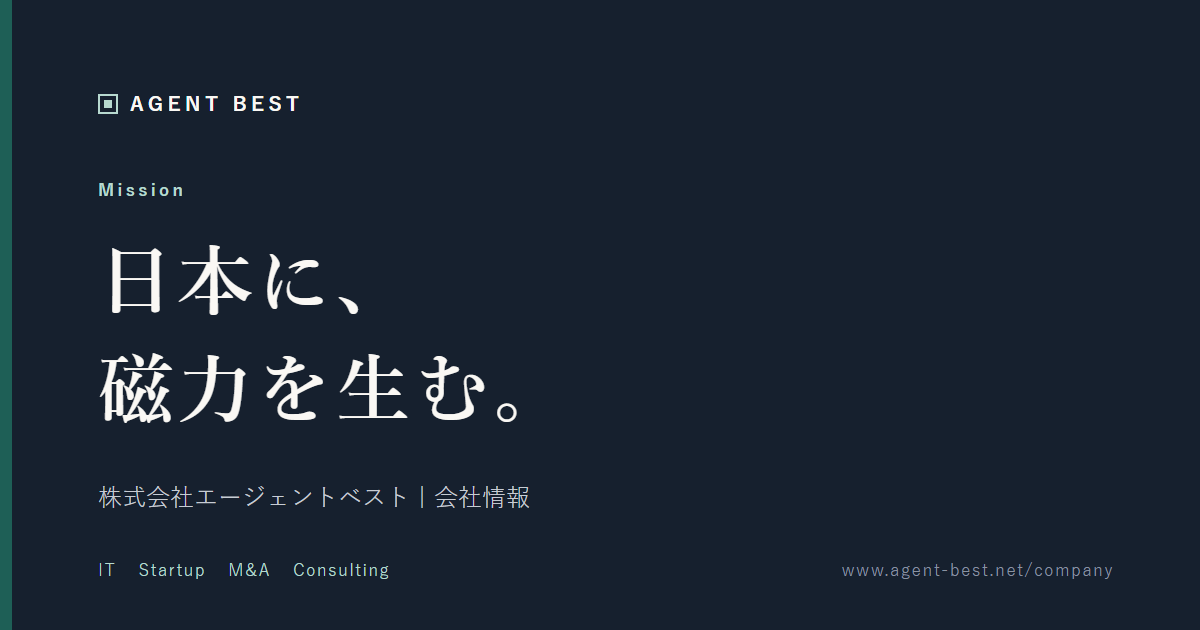
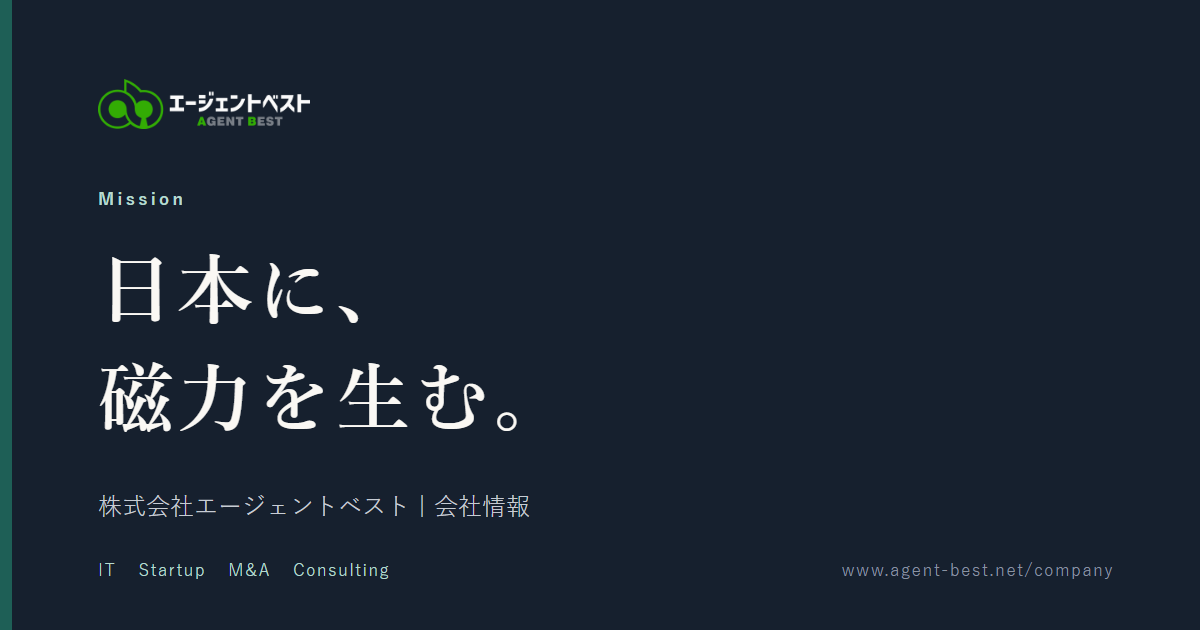
OGP画像3枚（トップ・会社情報・キャリア相談）を新ロゴに差し替え
- tools/ogp の左上ブランド表記を、CSSで描いた四角マーク＋「AGENT BEST」（旧ロゴ）から public/logo-white.png（新ロゴ）に変更
- public/ogp/home.png・company.png・consultation.png を再出力（文言・配色は変更なし）
- README にロゴの読み込み元を追記

diff --git a/tools/ogp/base.css b/tools/ogp/base.css
@@ -17,10 +17,10 @@ body {
 }
 /* 左端のティールの縦線＝サイトの spine と同じ意匠。
    ⚠ body::before だと flex コンテナの中で潰れて出なかったので border で引く。 */
-.brand { display: flex; align-items: center; gap: 12px; margin-bottom: 40px; }
-.mark { width: 16px; height: 16px; border: 2px solid #B7D9CF; position: relative; }
-.mark::after { content: ""; position: absolute; inset: 4px; background: #B7D9CF; }
-.brand-name { font-weight: 700; letter-spacing: 0.22em; font-size: 20px; }
+.brand { display: flex; align-items: center; margin-bottom: 40px; }
+/* 新ロゴ（public/logo-white.png・原本 C:\Users\user\ロゴ素材\dist\）。
+   2026-10-25 まではCSSで描いた四角マーク＋「AGENT BEST」の文字組み（旧ロゴ）だった。 */
+.brand img { height: 50px; display: block; }
 .eyebrow {
   font-size: 17px; letter-spacing: 0.2em; color: #B7D9CF; font-weight: 700;
   margin-bottom: 26px;

diff --git a/tools/ogp/consultation.html b/tools/ogp/consultation.html
@@ -1,5 +1,5 @@
 <meta charset="utf-8"><link rel="stylesheet" href="base.css">
-<div class="brand"><span class="mark"></span><span class="brand-name">AGENT&nbsp;BEST</span></div>
+<div class="brand"><img src="../../public/logo-white.png" alt="エージェントベスト"></div>
 <p class="eyebrow">Career Consultation</p>
 <h1>まだ何も<br>決まっていなくて、いい。</h1>
 <p class="sub">20代・30代のキャリア相談（無料・オンライン）</p>

diff --git a/tools/ogp/home.html b/tools/ogp/home.html
@@ -1,5 +1,5 @@
 <meta charset="utf-8"><link rel="stylesheet" href="base.css">
-<div class="brand"><span class="mark"></span><span class="brand-name">AGENT&nbsp;BEST</span></div>
+<div class="brand"><img src="../../public/logo-white.png" alt="エージェントベスト"></div>
 <p class="eyebrow">Recruiting Agency</p>
 <h1>領域を絞った、<br>確かな提案。</h1>
 <p class="sub">20代・30代のハイクラスキャリアに、戦略を。</p>

diff --git a/tools/ogp/company.html b/tools/ogp/company.html
@@ -1,5 +1,5 @@
 <meta charset="utf-8"><link rel="stylesheet" href="base.css">
-<div class="brand"><span class="mark"></span><span class="brand-name">AGENT&nbsp;BEST</span></div>
+<div class="brand"><img src="../../public/logo-white.png" alt="エージェントベスト"></div>
 <p class="eyebrow">Mission</p>
 <h1>日本に、<br>磁力を生む。</h1>
 <p class="sub">株式会社エージェントベスト｜会社情報</p>

diff --git a/tools/ogp/README.md b/tools/ogp/README.md
@@ -29,5 +29,7 @@ done
 | `company.png` | `src/pages/company.astro` |
 | `consultation.png` | `src/pages/consultation.astro` |
 
+ロゴは `public/logo-white.png`（新ロゴ・2026-10-25差し替え）をHTMLから相対パスで読む。
+
 `Layout.astro` に `image="/ogp/xxx.png"` を渡すと `og:image` と `twitter:card=summary_large_image` が出る。
 **渡さないページには og:image が出ない**（＝シェアしても白いカードになる）。
